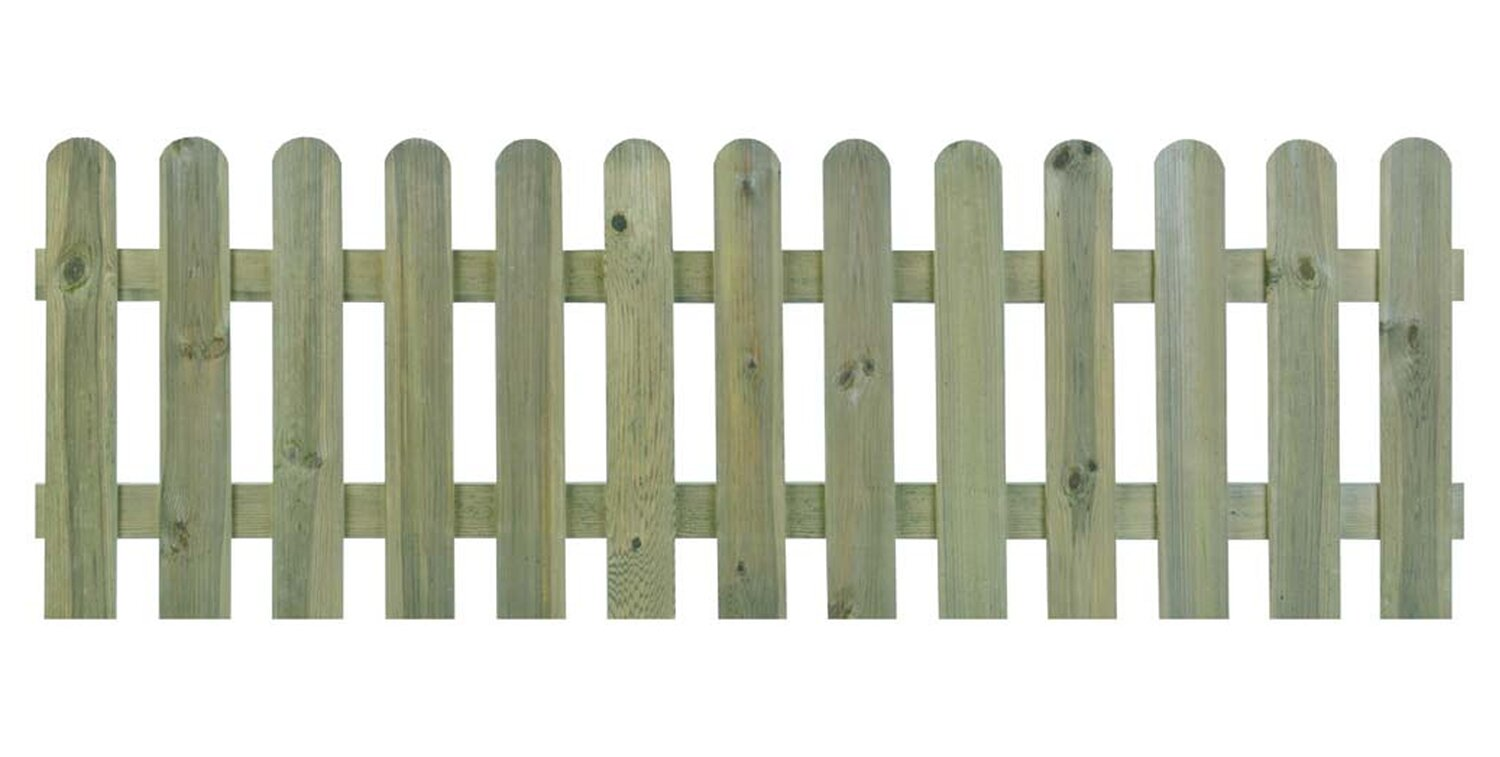
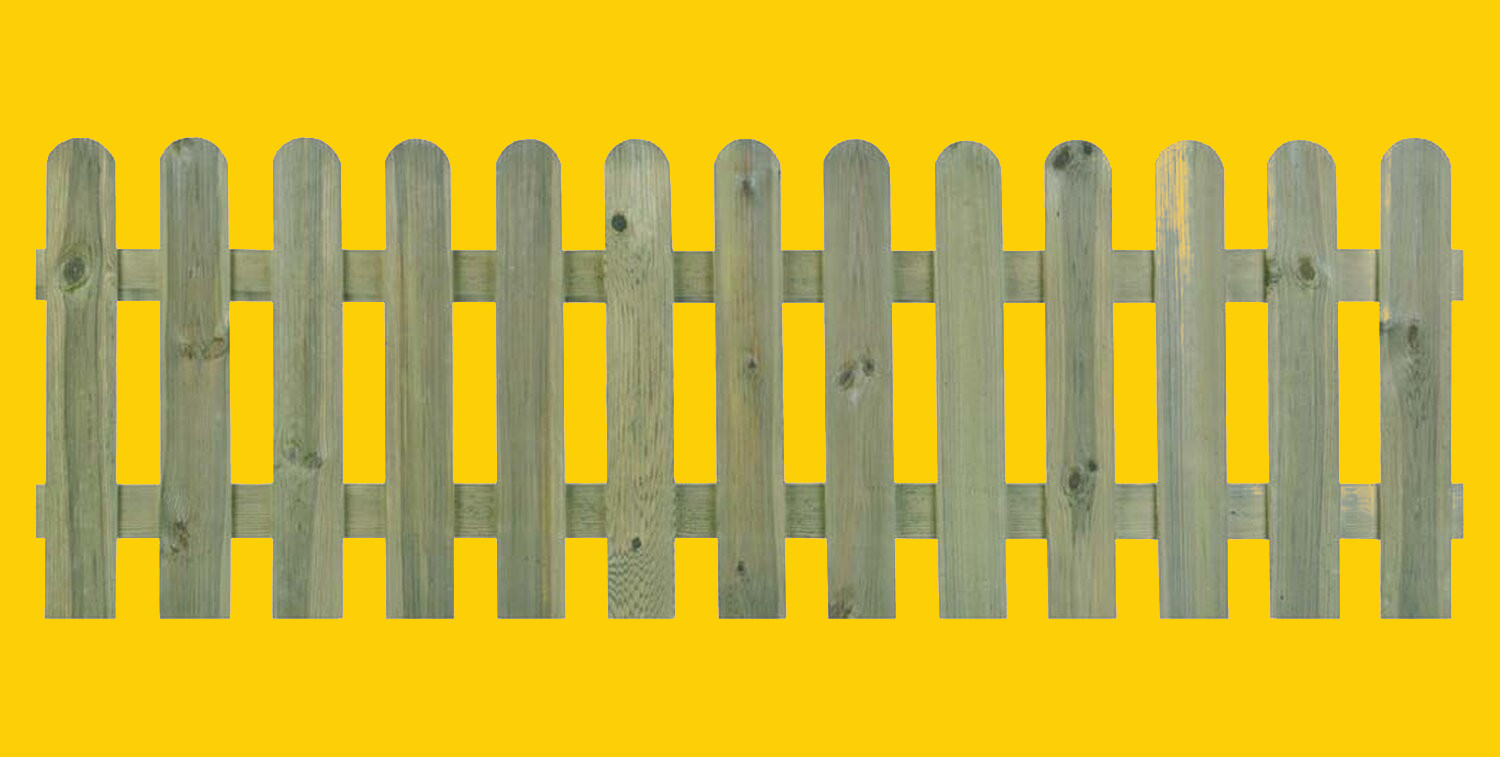
Poprawka zdjęć + responsywności

diff --git a/docs/matbd.html b/docs/matbd.html
@@ -55,7 +55,7 @@
 </nav>
 <h1>MATERIAŁY BUDOWLANE</h1>
 <div class="row text-center">
-    <div class="col-md-6 col-lg-4 p-5">
+    <div class="col-md-6 col-xl-4 p-5">
         <h2>KOSTKA BRUKOWA</h2>
         <img src="img/kostka.jpg" class="partner" alt="">
         <p class="text-justify p-5">Kostka brukowa szara ma charakterystyczne, zaokrąglone krawędzie i naroża, wąskie
@@ -64,7 +64,7 @@
             niskie temperatury oraz ścieranie. Dzięki połączeniu jej z kostkami w innych kolorach, jak np. kostka
             brukowa czerwona czy kostka brukowa czarna, można tworzyć estetyczne aranżacje.</p>
     </div>
-    <div class="col-md-6 col-lg-4 p-5">
+    <div class="col-md-6 col-xl-4 p-5">
         <h2>CEMENT</h2>
         <img src="img/cement.jpg" class="partner" alt="">
         <p class="text-justify p-5">Nasz cement jest idealny do wszystkich prac budowlanych. Można z niego wykonywać
@@ -74,7 +74,7 @@
             betony i zaprawy charakteryzują się podwyższoną odpornością na działanie środowisk agresywnych
             chemicznie.</p>
     </div>
-    <div class="col-md-6 col-lg-4 p-5">
+    <div class="col-md-6 col-xl-4 p-5">
         <h2>PŁYTKI</h2>
         <img src="img/płytka.jpg" class="partner" alt="">
         <p class="text-justify p-5">Płytka klinkierowa przeznaczona do wewnątrz i na zewnątrz pomieszczeń do położenia
@@ -82,27 +82,27 @@
             idealnie nadaje się do wszystkich pomieszczeń mieszkalnych oraz użyteczności publicznej (z wyłączeniem
             miejsc o szczególnym natężeniu ruchu). Współczynnik antypoślizgowości R9.</p>
     </div>
-    <div class="col-md-6 col-lg-4 p-5">
+    <div class="col-md-6 col-xl-4 p-5">
         <h2>PANELE PODŁOGOWE</h2>
-        <img src="img/panele.jpg" class="partner" alt="">
+        <img src="img/panele.png" class="partner" alt="">
         <p class="text-justify p-5">Jest to wysokiej jakości panel podłogowy o klasie ścieralności AC 3 oznaczającą
             dobrą odporność na ścieranie czy uderzenia. Przeznaczony jest do pomieszczeń mieszkalnych oraz do
             pomieszczeń użyteczności publicznej o niskim natężeniu ruchu, np. małe biuro, butik.
             Struktura drewna sprawia, że ułożona podłoga odzwierciedla wygląd desek parkietowych.
             Dzięki bezklejowemu systemowi łączenia, montaż przebiega szybko i bezproblemowo.</p>
     </div>
-    <div class="col-md-6 col-lg-4 p-5">
+    <div class="col-md-6 col-xl-4 p-5">
         <h2>KLEJ</h2>
-        <img src="img/klej.jpg" class="partner" alt="">
+        <img src="img/klej.png" class="partner" alt="">
         <p class="text-justify p-5">Klej błyskawiczny jest wykonany z kauczuku i dodatkowo wzmocniony
             włóknami syntetycznymi, co daje mu wysoką siłę spojenia. Zapewnia trwałe i wodoodporne łączenie. Trzyma już
             po 1 sekundzie od dociśnięcia, natomiast pełne utwardzenie kleju następuje po 24 godzinach. Może być
             stosowany do uzupełniania ubytków w podłożu. Przeznaczony do użytku zarówno w pomieszczeniach, jak i na
             zewnątrz.</p>
     </div>
-    <div class="col-md-6 col-lg-4 p-5">
+    <div class="col-md-6 col-xl-4 p-5">
         <h2>SZTACHETY</h2>
-        <img src="img/sztachety.jpg" class="partner" alt="">
+        <img src="img/sztachety.png" class="partner" alt="">
         <p class="text-justify p-5">Nasz płot sztachetowy, staranne wykończenie oraz estetyczny wygląd czynią go
             niezastąpionym dla typowych zastosowań podczas tworzenia aranżacji na działce lub ogrodzie. Wykonany z
             drewna sosnowego poddanego procesowi impregnacji ciśnieniowej, która zabezpiecza go przed szkodliwym
